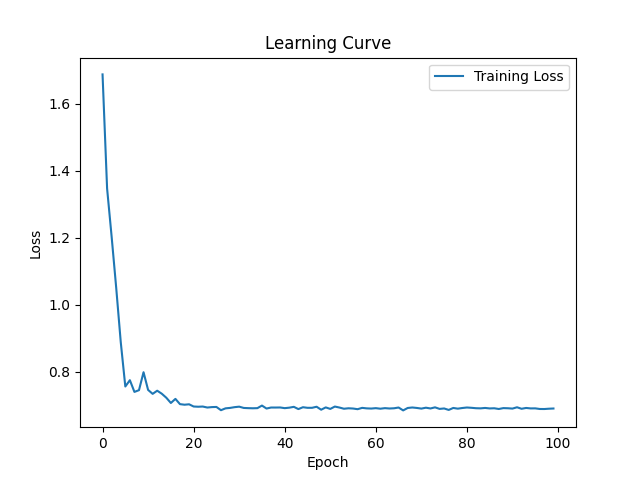
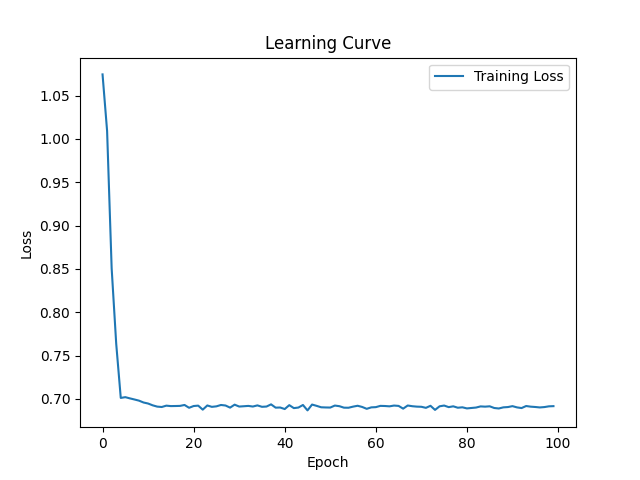
Start adding weight decay

diff --git a/lab-5/neuralclassifier.py b/lab-5/neuralclassifier.py
@@ -65,11 +65,13 @@ class NeuralClassifier:
         dJdw2 = np.dot(self.a1.T, delta2)
 
         delta1 = np.dot(delta2, self.w2.T) * self.relu_derivative(self.a1)
+
+        regularization_term = 0.01 * np.sum(self.w1)
         dJdw1 = np.dot(X.T, delta1)
 
-        self.w1 += self.learning_rate * dJdw1
-        self.w2 += self.learning_rate * dJdw2
-        self.w3 += self.learning_rate * dJdw3
+        self.w1 += self.learning_rate * (dJdw1 + regularization_term)
+        self.w2 += self.learning_rate * (dJdw2 + regularization_term)
+        self.w3 += self.learning_rate * (dJdw3 + regularization_term)
 
     def train(self, X, y, X_val, y_val, num_epochs=100):
         # Train the network using stochastic gradient descent
